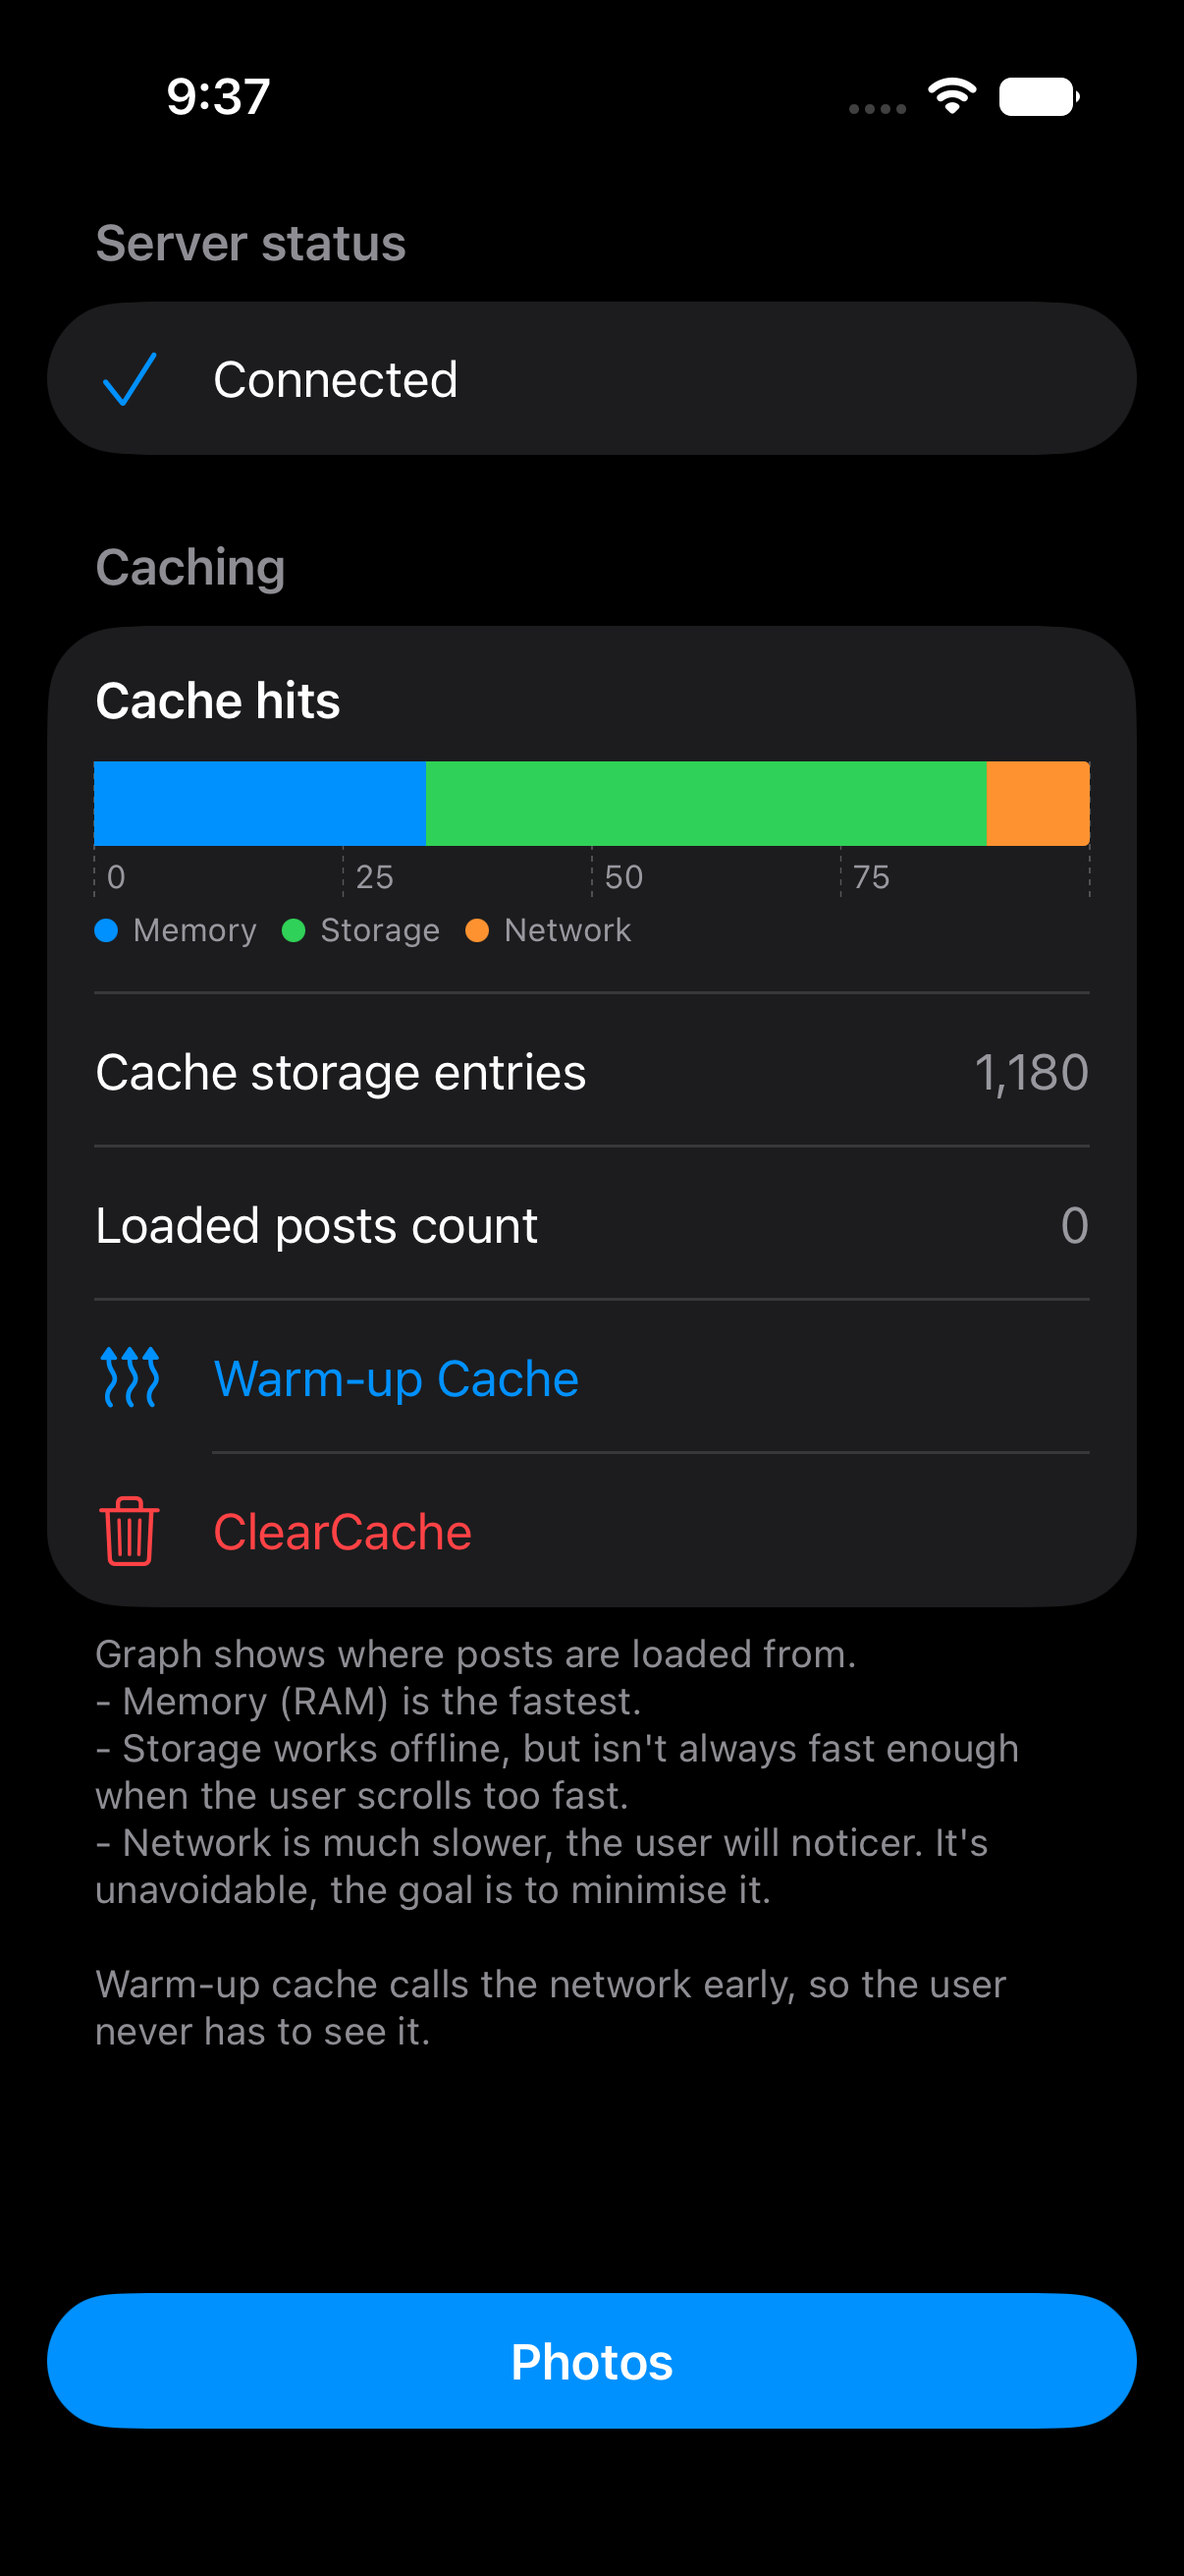
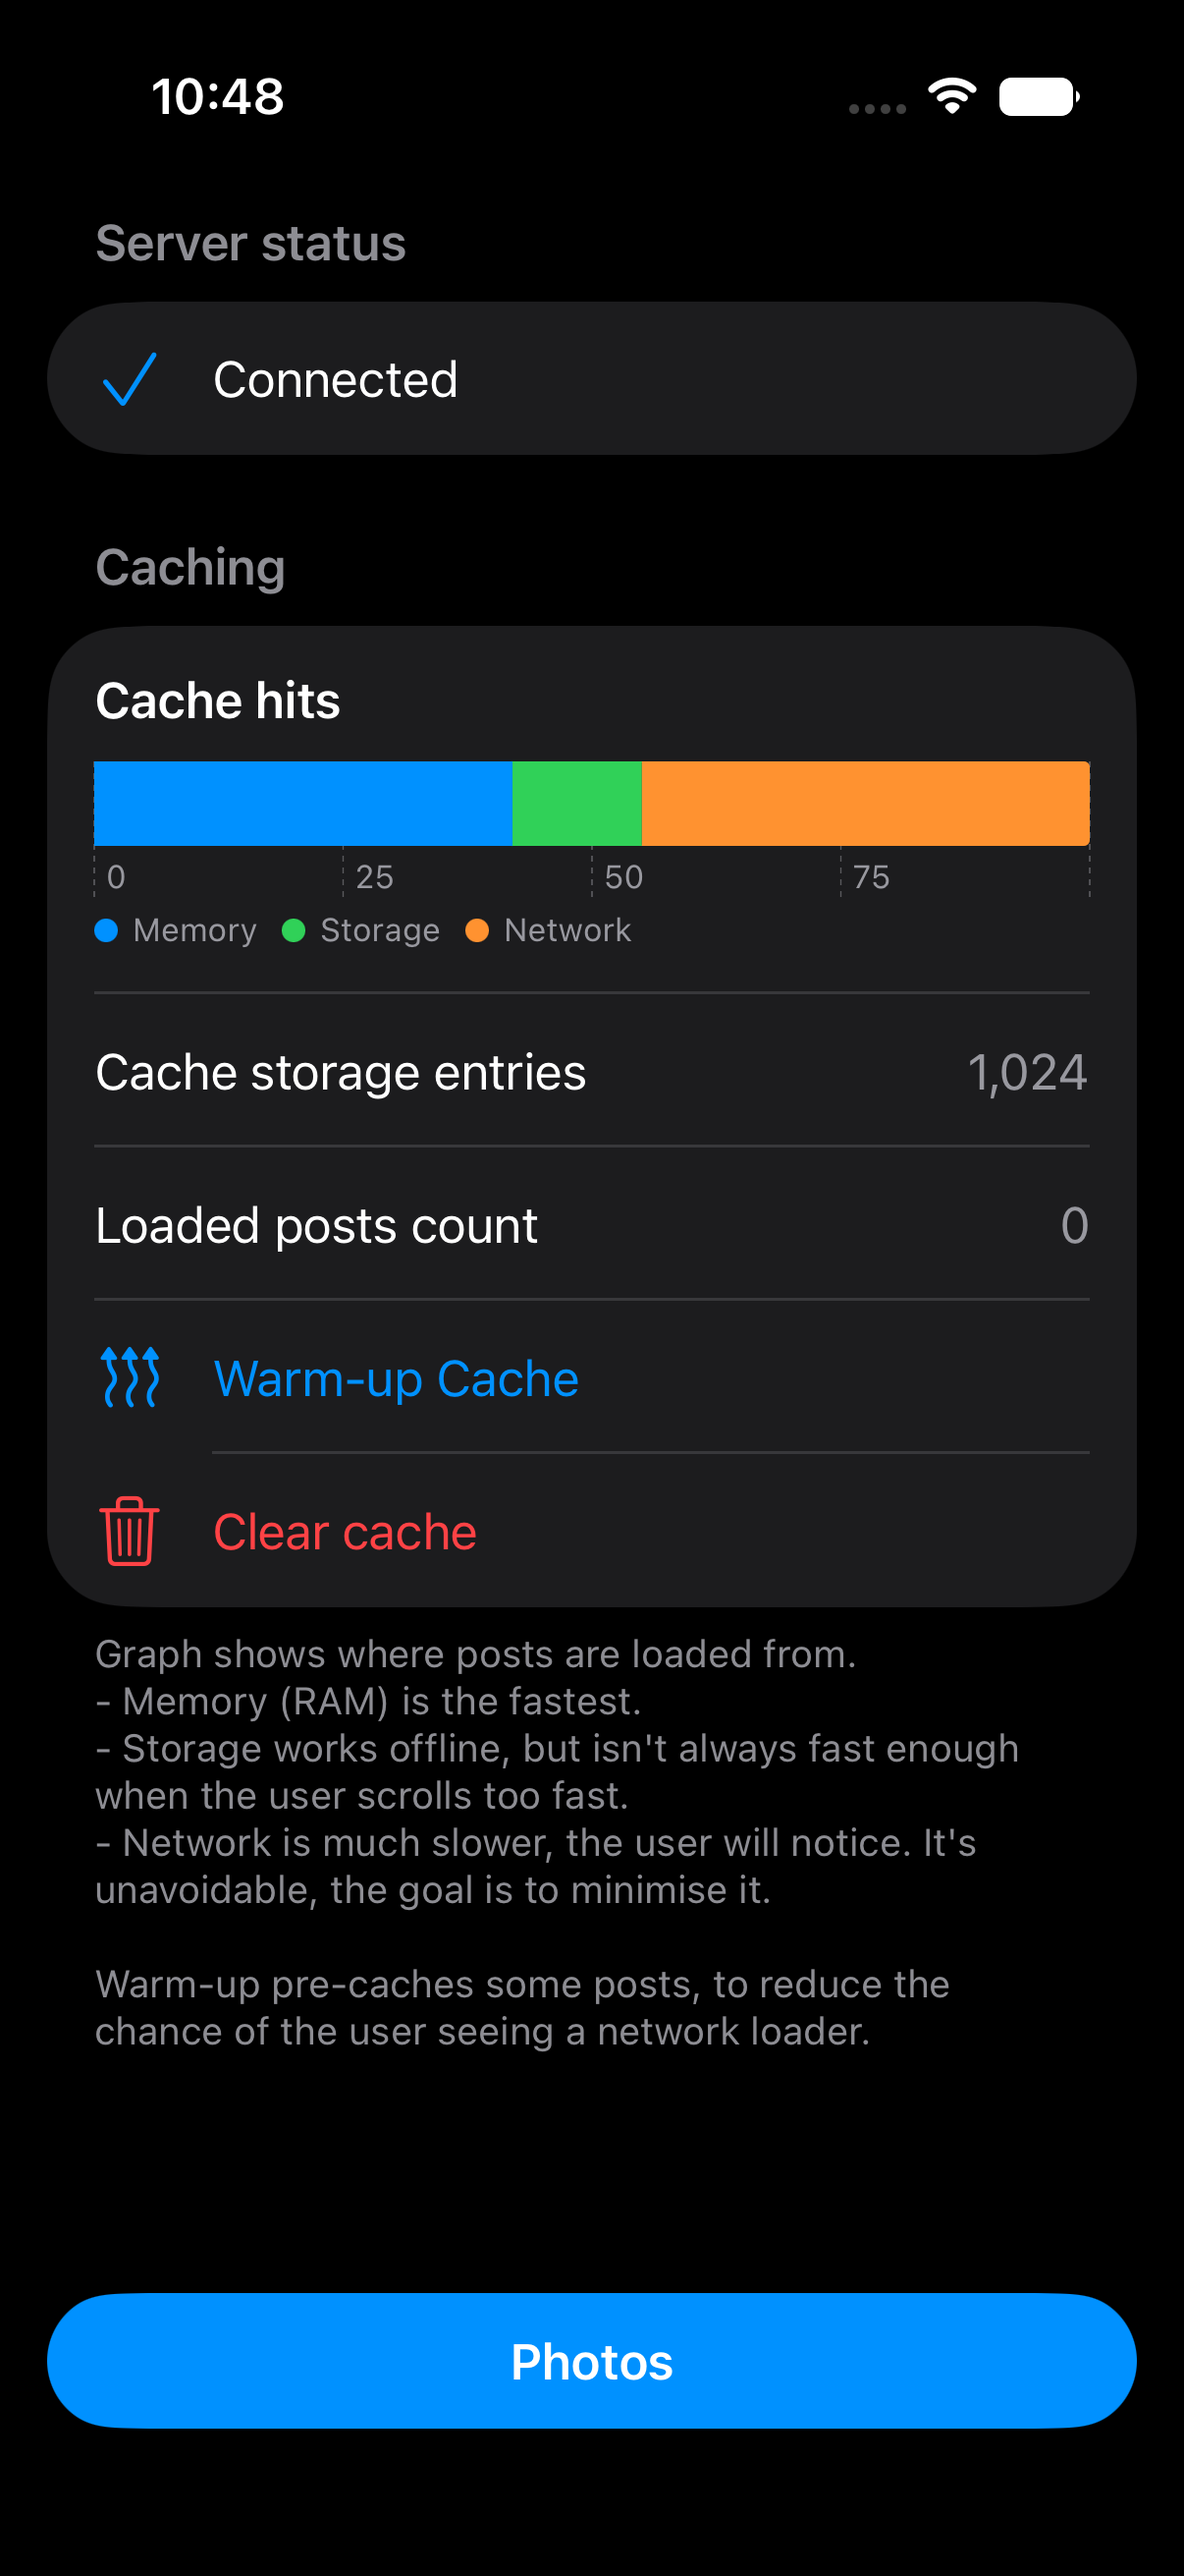
Automatic cache warm-up, jump up and down buttons

diff --git a/FastCollection/View/PhotoCollectionView.swift b/FastCollection/View/PhotoCollectionView.swift
@@ -2,8 +2,10 @@ import ImmichAPI
 import SwiftUI
 
 struct PhotoCollectionView: View {
+    static let spacing: CGFloat = 2
+
     private let columns = Array(
-        repeating: GridItem(.flexible()),
+        repeating: GridItem(.flexible(), spacing: spacing),
         count: 4,
     )
 
@@ -14,26 +16,54 @@ struct PhotoCollectionView: View {
     private var errorMessage: String?
 
     var body: some View {
-        collectionView
-            .task { try? await model.preload() }
-            .navigationSubtitle("Loaded \(model.posts.count) posts.")
+        ScrollViewReader { proxy in
+            collectionView
+                .toolbar {
+                    Button(
+                        "Jump to the top",
+                        systemImage:  "arrow.up.to.line"
+                    ) {
+                        proxy.scrollTo("Top")
+                    }
+                    Button(
+                        "Jump to the top",
+                        systemImage:  "arrow.down.to.line"
+                    ) {
+                        proxy.scrollTo("Bottom")
+                    }
+                }
+        }
+        .task {
+            try? await model.preload()
+        }
     }
 
     private var collectionView: some View {
         ScrollView {
-            LazyVGrid(columns: columns) {
+            Text("That's all folks!")
+                .padding()
+                .id("Top")
+            LazyVGrid(columns: columns, spacing: Self.spacing) {
                 postThumbnails
                 loadingPagePlaceholder
             }
+            Label(
+                "Scroll up to turn back time", 
+                systemImage: "clock.arrow.circlepath"
+            )
+            .padding()
+            .id("Bottom")
         }
+        .defaultScrollAnchor(.bottom)
         .scrollEdgeEffectStyle(.soft, for: .all)
         .background()
     }
 
     private var postThumbnails: some View {
-        ForEach(model.posts) { post in
+        ForEach(model.posts.reversed()) { post in
             ThumbnailView(post: post)
                 .task { try? await model.loadMorePosts(after: post) }
+                .onAppear { preloadIfNeeded(on: post) }
                 .id(post.id)
         }
     }
@@ -44,6 +74,40 @@ struct PhotoCollectionView: View {
             ForEach(0..<100) { _ in
                 PlaceholderPostView()
             }
+        }
+    }
+
+
+    // TODO: Move this away
+
+    @Environment(\.postStore)
+    private var postStore: PostStore
+
+    private static var isPreloading: Bool = false
+
+    private func preloadIfNeeded(on post: Post) {
+        if model.didReachEnd || Self.isPreloading { return }
+
+        let postCount = model.posts.count
+        let postIndex = model.posts.firstIndex { $0.id == post.id }
+        guard let postIndex, postIndex > postCount - 200 else { return }
+
+        Task {
+            Self.isPreloading = true
+            print("Reaching the last page, warming up cache...")
+
+            // !!!
+            // If a view is using a custom environment PostStore value
+            // It will not benefit!
+            // This is just a hack to test the idea.
+            // This all does not belong here at all
+            let service = CacheWarmupService(postLoader: model, postStore: postStore)
+            do {
+                try await service.preloadCache(max: postCount + 500)
+            } catch {
+                print("Cache warmup failed (\(error)).")
+            }
+            Self.isPreloading = false
         }
     }
 }

diff --git a/FastCollection/Store/Post/PostGenerator.swift b/FastCollection/Store/Post/PostGenerator.swift
@@ -10,6 +10,7 @@ actor PostGenerator {
     let scale: CGFloat = 2
     let frontSize = CGSize(width: 60, height: 80)
     let backSize = CGSize(width: 150, height: 200)
+    let borderColor = UIColor.black
 
     @concurrent
     func generate(_ post: Post) async throws -> UIImage {
@@ -29,17 +30,26 @@ actor PostGenerator {
     @concurrent
     func compose(front: UIImage, back: UIImage) async -> UIImage {
         let backFrame = CGRect(origin: .zero, size: backSize)
-        let frontFrame = CGRect(origin: CGPoint(x: 2, y: 2), size: frontSize)
+        let frontFrame = CGRect(origin: CGPoint(x: 6, y: 6), size: frontSize)
+        let borderFrame = frontFrame.insetBy(dx: -1, dy: -1)
+        let border = unsafe CGPath(
+            roundedRect: borderFrame,
+            cornerWidth: 8,
+            cornerHeight: 8,
+            transform: nil
+        )
 
         return UIGraphicsImageRenderer(size: backSize).image { context in
+            let cgctx = context.cgContext
+
             back.draw(in: backFrame)
 
-            let cgctx = context.cgContext
-            cgctx.setFillColor(UIColor.white.cgColor)
-            cgctx.addRect(frontFrame.insetBy(dx: -1, dy: -1))
-            cgctx.fillPath()
-
             front.draw(in: frontFrame)
+
+            cgctx.setStrokeColor(borderColor.cgColor)
+            cgctx.setLineWidth(2)
+            cgctx.addPath(border)
+            cgctx.strokePath()
         }
     }
 

diff --git a/FastCollection/Store/CacheWarmupService.swift b/FastCollection/Store/CacheWarmupService.swift
@@ -2,11 +2,11 @@ struct CacheWarmupService {
     let postLoader: PostLoader
     let postStore: PostStore
 
-    func preloadCache() async throws {
+    func preloadCache(max: Int = 1000) async throws {
         try await postLoader.preload()
 
         for _ in 0...20 {
-            if postLoader.posts.count >= 1000 { break }
+            if postLoader.posts.count >= max { break }
             try await postLoader.loadNextPage()
         }
 

diff --git a/FastCollection/View/DashboardView/ClearCacheButton.swift b/FastCollection/View/DashboardView/ClearCacheButton.swift
@@ -20,7 +20,7 @@ struct ClearCacheButton: View {
     var body: some View {
         HStack {
             Button(
-                (isClearingCache ? "Clearing" : "Clear") + "Cache",
+                (isClearingCache ? "Clearing" : "Clear") + " cache",
                 systemImage: "trash",
                 role: .destructive
             ) {

diff --git a/FastCollection/View/Post/ThumbnailView.swift b/FastCollection/View/Post/ThumbnailView.swift
@@ -14,7 +14,7 @@ struct ThumbnailView: View {
             let image = if let asset {
                 Image(uiImage: asset).resizable()
             } else {
-                Image(systemName: "questionmark.circle")
+                Image(systemName: "icloud.and.arrow.down")
             }
 
             image

diff --git a/FastCollection/View/Post/PostContainer.swift b/FastCollection/View/Post/PostContainer.swift
@@ -8,7 +8,6 @@ struct PostContainer<Content: View>: View {
         content
             .frame(maxWidth: .infinity, maxHeight: .infinity)
             .aspectRatio(3/4, contentMode: .fill)
-            .border(.secondary)
             .background(.background.secondary)
             .clipped()
     }

diff --git a/README.md b/README.md
@@ -43,8 +43,8 @@ Your Immich library must contain tags with the exact values `BeReal/front` and `
 Open `FastCollection/FastCollection.xcodeproj`, select the `FastCollection` scheme, and run the app.
 
 ## Roadmap
-- [ ] Add corner radius to the thumbnails.
-- [ ] Run new prefetching jobs when the user reaches the last 200 cached assets
+- [x] Add corner radius to the thumbnails. (ish. I cheated eheh)
+- [x] Run new prefetching jobs when the user reaches the last 200 cached assets
 - [ ] Minor Refactoring:
   - [ ] Reword some types (PostLoader, PageLoader, PostStore... that's messy)
   - [ ] Factorise the image and post metadata disk caches with a generic type
